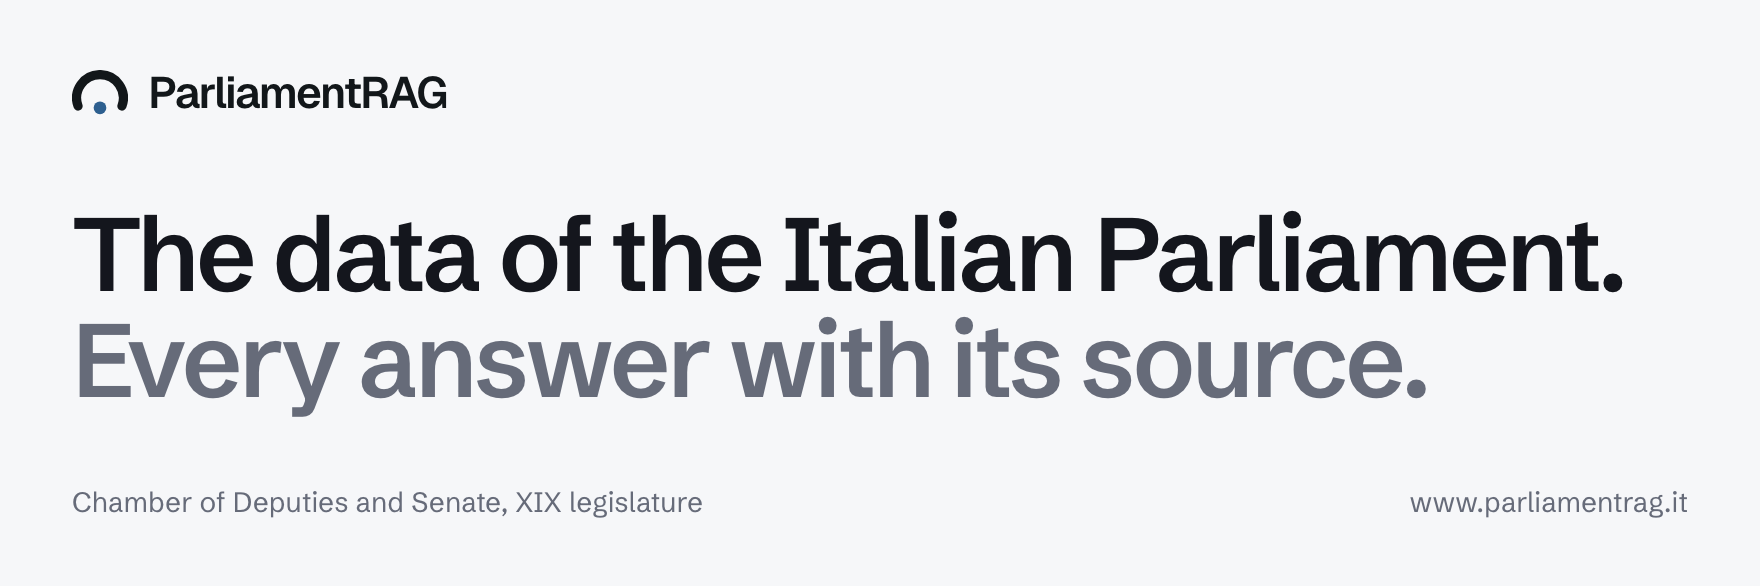
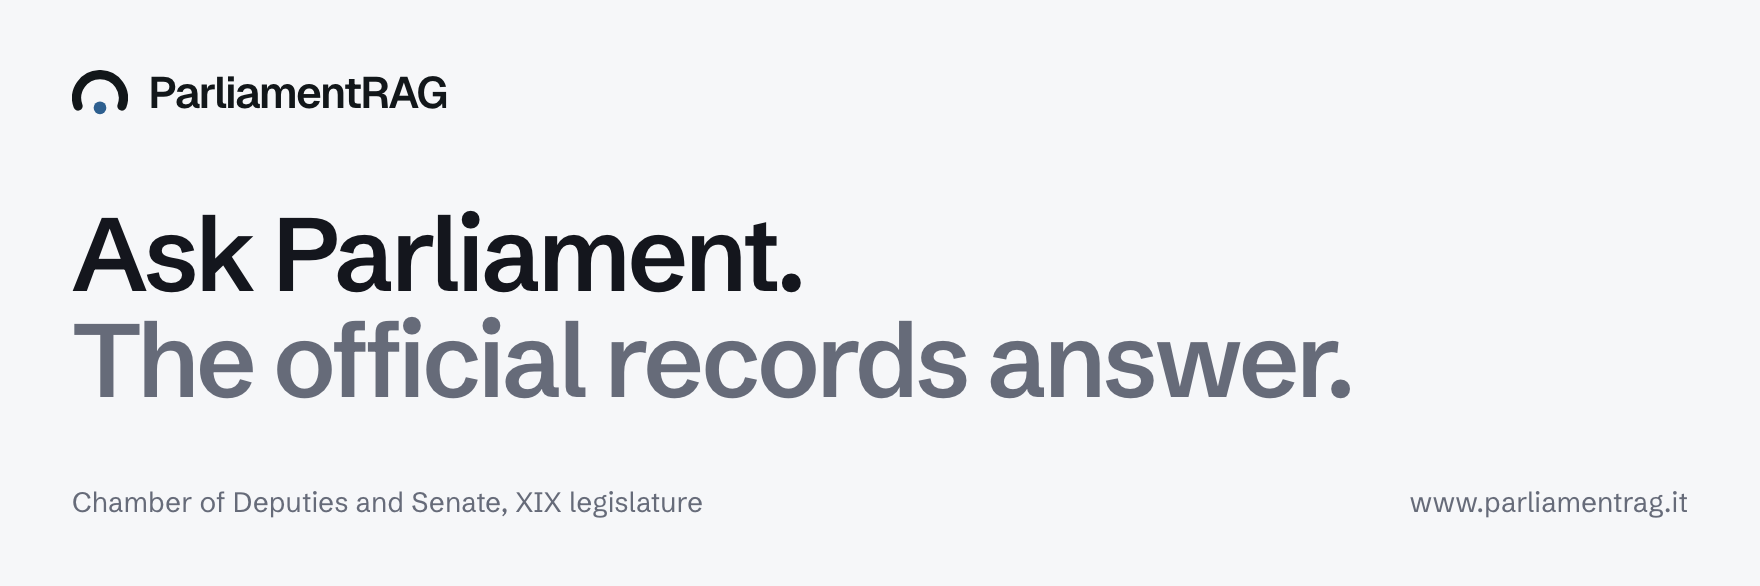
docs(readme): testata come la home, modello europeo su server UE

Changed region(s): [[0.0312, 0.3686, 0.9375, 0.7065]]

diff --git a/README.md b/README.md
@@ -1,6 +1,6 @@
 <picture>
   <source media="(prefers-color-scheme: dark)" srcset="docs/assets/testata-scuro.png">
-  <img alt="ParliamentRAG. The data of the Italian Parliament. Every answer with its source." src="docs/assets/testata-chiaro.png">
+  <img alt="ParliamentRAG. Ask Parliament. The official records answer." src="docs/assets/testata-chiaro.png">
 </picture>
 
 <p>
@@ -213,7 +213,7 @@ November 2026. The database holds both chambers of the XIX legislature; the nigh
 2. One service: site, agent, dossier, checks, API and MCP on PostgreSQL, on Railway, at www.parliamentrag.it.
 3. The authority score and the group check on PostgreSQL, with filters by chamber and period; a run on the full benchmark.
 4. Counting tools for numeric questions; the nightly run on a server; a public dump of the database with a DOI.
-5. A European language model, hosted by us, in place of OpenAI for the chat and the vectors. Whoever chooses what people read of their Parliament steers public debate, and that choice should stay under European rules. Today OpenAI is the only service that processes the questions outside the EU; the database and the service run on servers in the EU.
+5. A European language model, on servers in the EU, in place of OpenAI for the chat and the vectors. Whoever chooses what people read of their Parliament steers public debate, and that choice should stay under European rules. Today OpenAI is the only service that processes the questions outside the EU; the database and the service run on servers in the EU.
 
 ## Limitations
 
